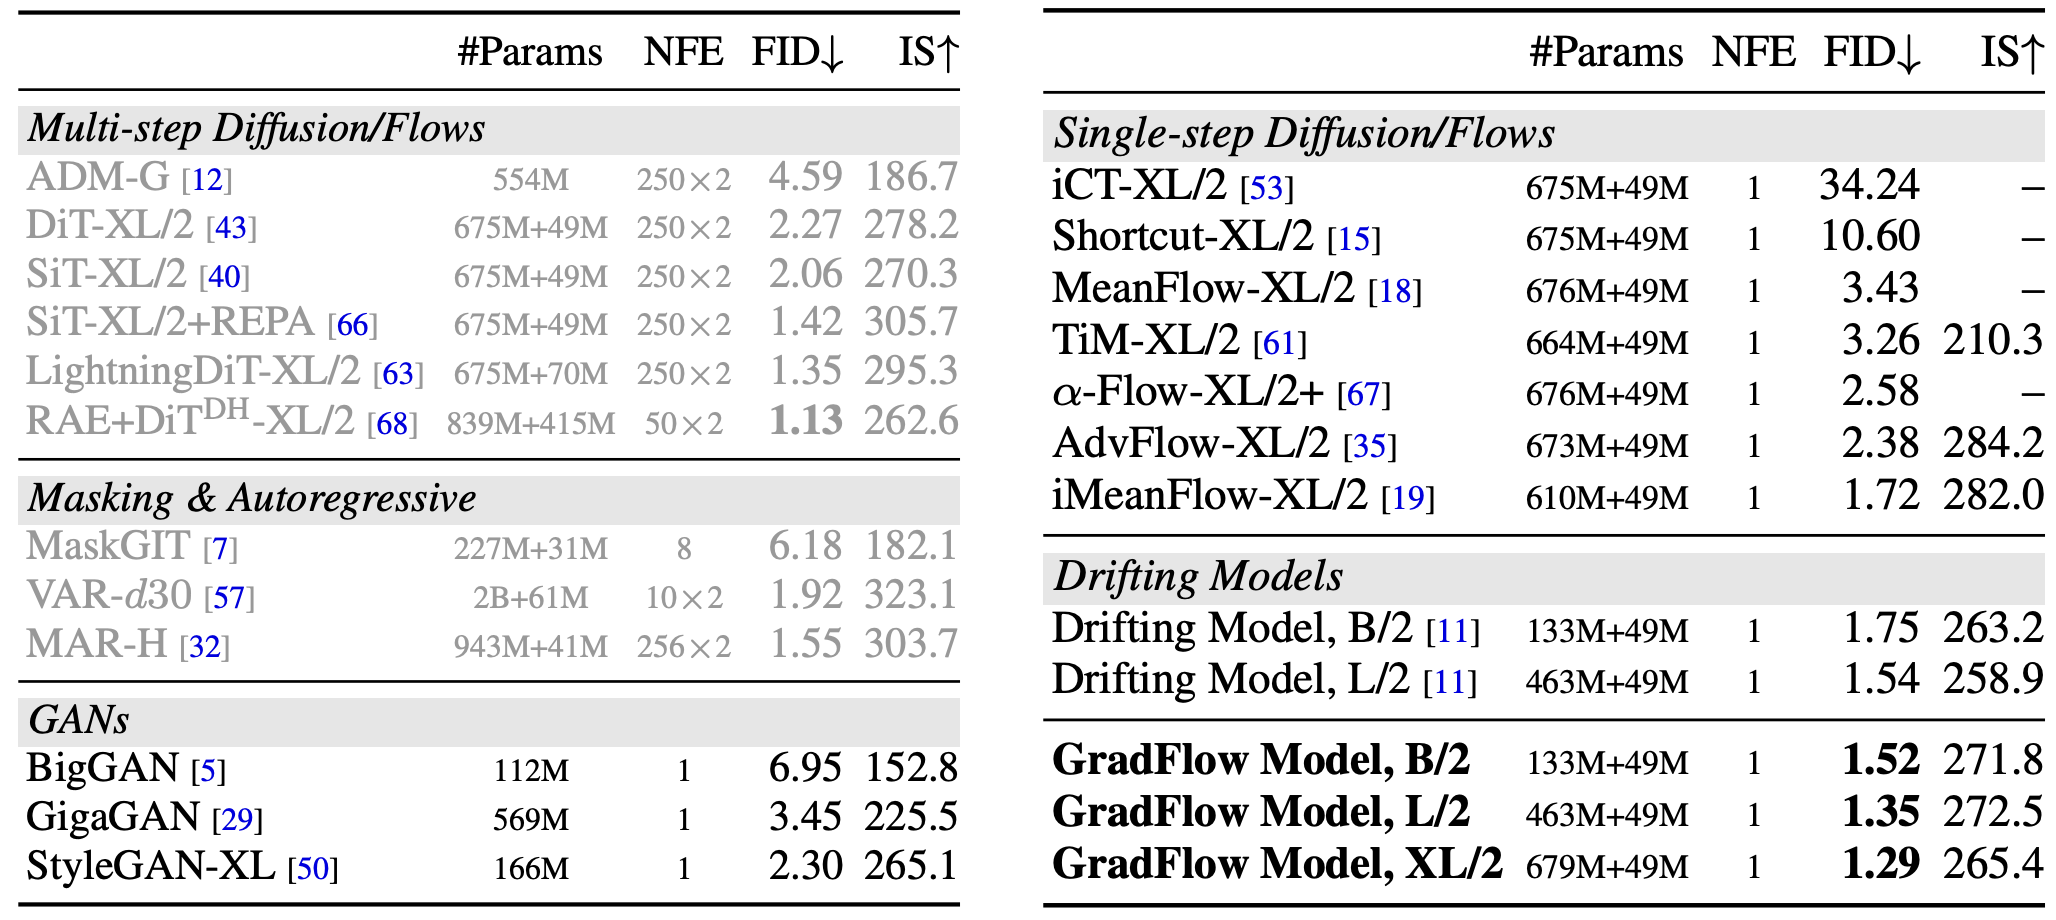
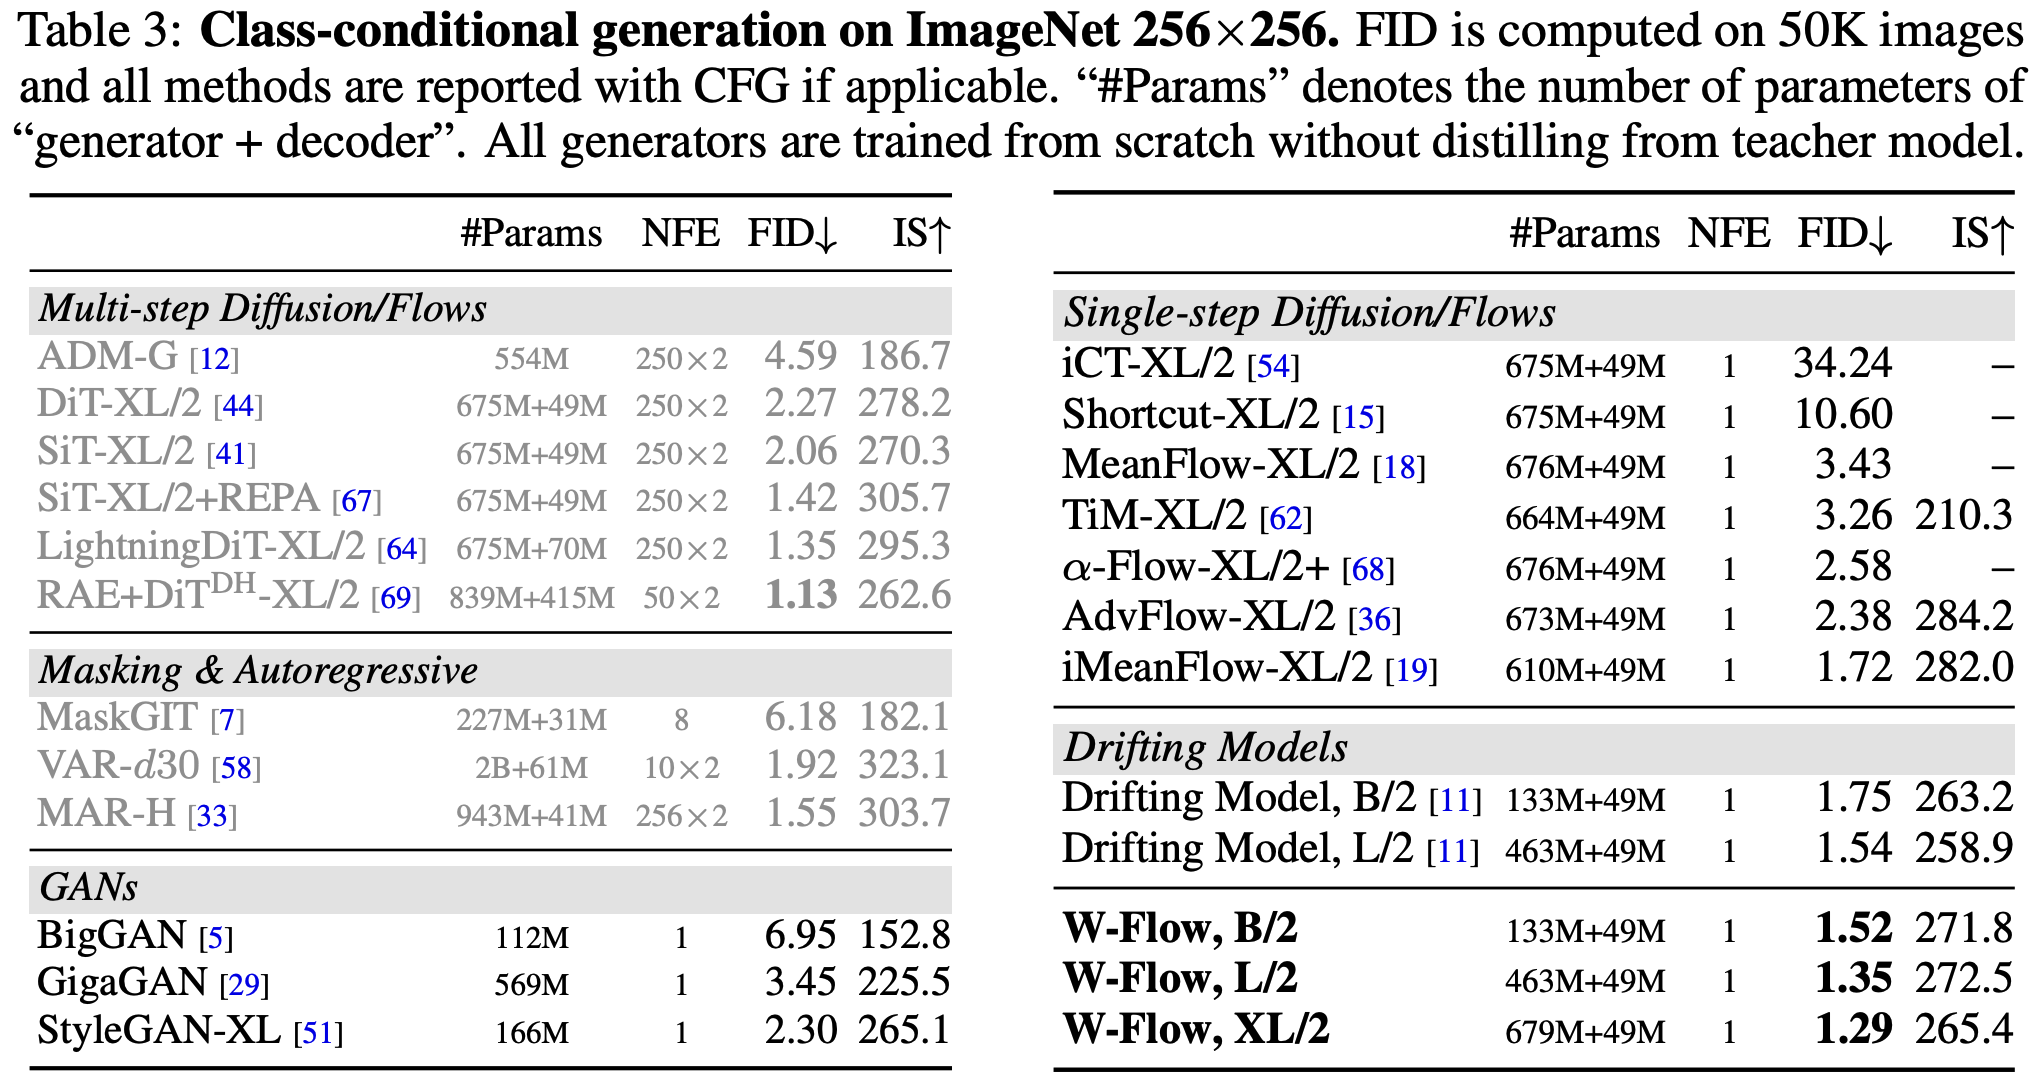
update wflow website

diff --git a/W-Flow/index.html b/W-Flow/index.html
@@ -111,7 +111,7 @@ window.MathJax = {
               <div class="publication-links">
                 <!-- PDF Link. -->
                 <span class="link-block">
-                  <a href="https://arxiv.org" class="external-link button is-normal is-rounded is-dark">
+                  <a href="https://arxiv.org/abs/2605.11755" class="external-link button is-normal is-rounded is-dark">
                     <span class="icon">
                       <i class="ai ai-arxiv"></i>
                     </span>
@@ -216,20 +216,20 @@ window.MathJax = {
           <div class="content has-text-justified">
             <p>Diffusion models and flow-based methods have shown impressive generative capability,
             especially for images, but their sampling is expensive because it requires many
-iterative updates. We introduce <em>W-Flow</em>, a framework for training a generator that
+iterative updates. We introduce <b>W-Flow</b>, a framework for training a generator that
 transforms samples from a simple reference distribution into samples from a target
-data distribution in a single step.</p>
-<p>This is achieved in two steps: we first define
+data distribution in <b>a single step</b>.</p>
+<p>This is achieved in <b>two steps</b>: we first define
 an evolution from the reference distribution to the target distribution through a
-Wasserstein gradient flow that minimizes an energy functional; second, we train
-a static neural generator to compress this evolution into one-step generation. We
+<b>Wasserstein gradient flow</b> that minimizes an energy functional; second, we train
+a static neural generator to <b>compress this evolution into one-step generation</b>. We
 instantiate the energy with the Sinkhorn divergence, which yields an efficient
 optimal-transport-based update rule that captures global distributional discrepancy
 and improves coverage of the target distribution. We further prove that the finite-
 sample training dynamics converge to the continuous-time distributional dynamics
 under suitable assumptions.
-<p>Empirically, W-Flow sets a new state of the art for
-one-step ImageNet 256&times;256 generation, achieving 1.29 FID, with improved mode
+<p>Empirically, W-Flow sets <b>a new state of the art</b> for
+one-step ImageNet 256&times;256 generation, achieving <b>1.29 FID</b>, with improved mode
 coverage and domain transfer. Compared to multi-step diffusion models with
 similar FID scores, our method yields approximately 100&times; faster sampling. These
 results show that Wasserstein gradient flows provide a principled and effective
@@ -360,6 +360,11 @@ the WGF can be used to define a continuous-time evolution that transforms sample
       </p>
     </div>
     <img src="./static/images/sweepcfg_cropped.png" alt="Method Overview" width="80%"/>
+          <p>
+      <em>(Left)</em> The FID and Inception Score curve when sweeping over different CFG scales.
+      <br>
+      <em>(Right)</em> Image samples produced by W-Flow, L/2 with CFG increasing from 0.0 to 2.0.
+      </p>
   </div>
 </div>
 
@@ -385,9 +390,10 @@ the WGF can be used to define a continuous-time evolution that transforms sample
           <div class="content has-text-justified">
             <p>
 
-              We compare W-Flow with state-of-the-art one-step generators and multi-step diffusion and flow models. Notably, W-Flow establishes a new state of the art for one-step class-conditional generation on ImageNet 256$\times$256, achieving an FID of 1.29 at XL scale and 1.35 at L scale, outperforming MeanFlow-based methods and Drifting Models by a clear margin.
+              We compare W-Flow with state-of-the-art one-step generators and multi-step diffusion and flow models. Notably, W-Flow establishes a <b>new state of the art</b> for one-step class-conditional generation on ImageNet 256$\times$256, achieving an <b>FID of 1.29</b> at XL scale and 1.35 at L scale, outperforming MeanFlow-based methods and Drifting Models by a clear margin.
               Remarkably, W-Flow B/2, with only 133M generator parameters, achieves an FID of 1.52, surpassing Drifting Model L/2 despite its substantially larger 463M-parameter generator.
-              Furthermore, despite 1-NFE sampling, W-Flow outperforms most diffusion models requiring up to 250 steps, such as LightningDiT-XL/2. These strong empirical results support our central claim that principled WGF dynamics can translate into exceptional generation performance.
+              Furthermore, despite 1-NFE sampling, W-Flow <b>outperforms most diffusion models</b> requiring up to 250 steps, such as LightningDiT-XL/2. These strong empirical results support our central claim that
+              <b>principled WGF dynamics can translate into exceptional generation performance.</b>
             </p>
           </div>
         </div>
@@ -404,6 +410,22 @@ the WGF can be used to define a continuous-time evolution that transforms sample
       <div class="columns is-centered has-text-centered">
         <div class="column">
           <h2 class="title is-3">Domain Transfer and Mode Coverage</h2>
+            <div class="content has-text-justified">
+            <p>
+              <b>Domain transfer.</b> Unlike standard generative models that typically map Gaussian noise to data,
+                W-Flow can instead define a WGF between arbitrary distributions. This makes it naturally suited
+                for domain transfer tasks where the source and target share the same semantic space. By setting
+                the reference distribution to be a source data distribution, it learns a one-step domain-transfer map, e.g., from senior
+                to young-adult faces.
+                In a 2D oval-to-circle toy example below, Drifting Model shows erratic intermediate states and
+                often moves particles far from their initial positions. In contrast, the OT-induced velocity in W-Flow
+                produces coordinated, nearly straight, and much shorter trajectories toward the target.
+                We further evaluate one-step age translation on FFHQ, mapping senior faces (ages 55-100) to
+                young-adult faces (ages 18-30). The figure below shows
+                that W-Flow achieves shorter latent $\ell_2$ transport distances and better preserves source identity.
+            </p>
+          </div>
+
           <img src="./static/images/face_comparison_cropped.png" alt="Method Overview" width="95%"/>
           <!-- Interpolating. -->
           <div class="content has-text-justified">
@@ -411,6 +433,22 @@ the WGF can be used to define a continuous-time evolution that transforms sample
               <b>(a) Oval-to-circle domain transfer.</b> Source and target are constructed by sampling angles uniformly from $[0, 2\pi)$ with parametric curves corrupted by Gaussian noise.
               <b>(b) & (c) One-step facial age translation on FFHQ, mapping older faces to younger ones.</b> <b>(b)</b> Histogram of the latent $\ell_2$ distance  between 2,000 source images and their generated targets.
     <b>(c)</b> Visual comparison. 
+            </p>
+          </div>
+
+
+                      <div class="content has-text-justified">
+            <p>
+              <b>Mode coverage.</b> We construct
+              a 2D Gaussian mixtures dataset with six large tightly concentrated modes and two small distant
+              minority modes. As shown in the figure below, Drifting Model greedily collapses on the dominant clusters,
+              while the Sinkhorn barycentric projections in W-Flow instead enforce global marginal constraints
+              and successfully preserve the coverage of all modes.
+              We further extend this observation to image generation on FFHQ under an imbalanced training
+              distribution, where target batches contain 95% senior faces (ages 55-100) and 5% child faces (ages
+              0-12). The PCA visualization in the figure below shows that Drifting Model almost entirely drops the
+              minority child mode, whereas W-Flow successfully captures it while maintaining high fidelity on the
+              dominant senior mode. 
             </p>
           </div>
 
@@ -496,11 +534,11 @@ the WGF can be used to define a continuous-time evolution that transforms sample
       <div class="columns is-centered has-text-centered">
       <h2 class="title">BibTeX</h2>
     </div>
-      <pre><code>@article{xxx,
-  title={xxx},
-  author={xxx},
-  journal={xxx},
-  year={xxx}
+      <pre><code>@article{han2026onestep,
+  title={One-Step Generative Modeling via Wasserstein Gradient Flows},
+  author={Han, Jiaqi and Li, Puheng and Guo, Qiushan and Xu, Renyuan and Ermon, Stefano and Candes, Emmanuel},
+  journal={arXiv preprint arXiv:2605.11755},
+  year={2026}
 }</code></pre>
     </div>
   </section>
